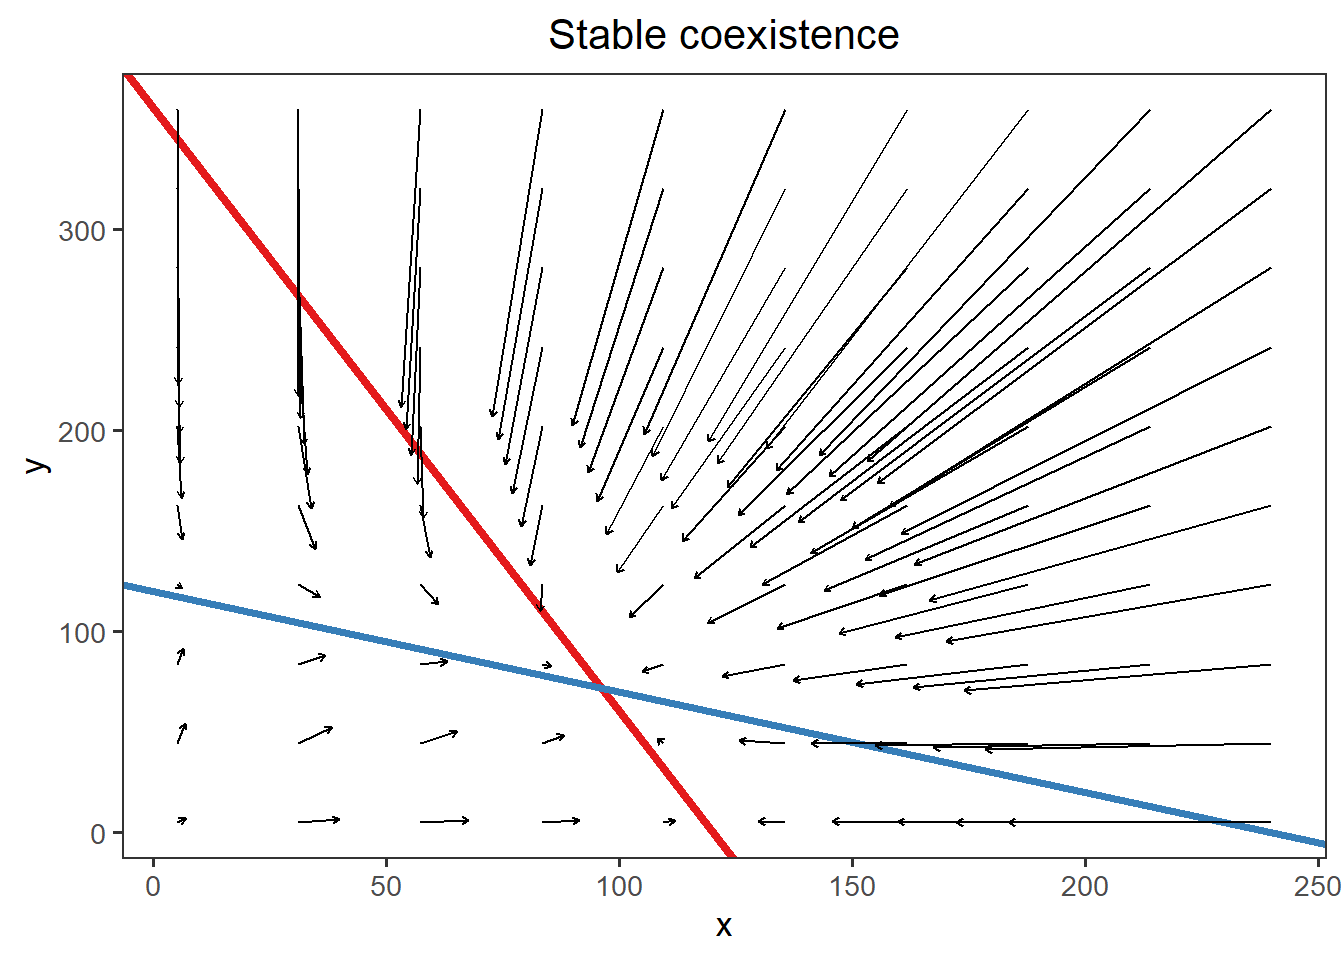
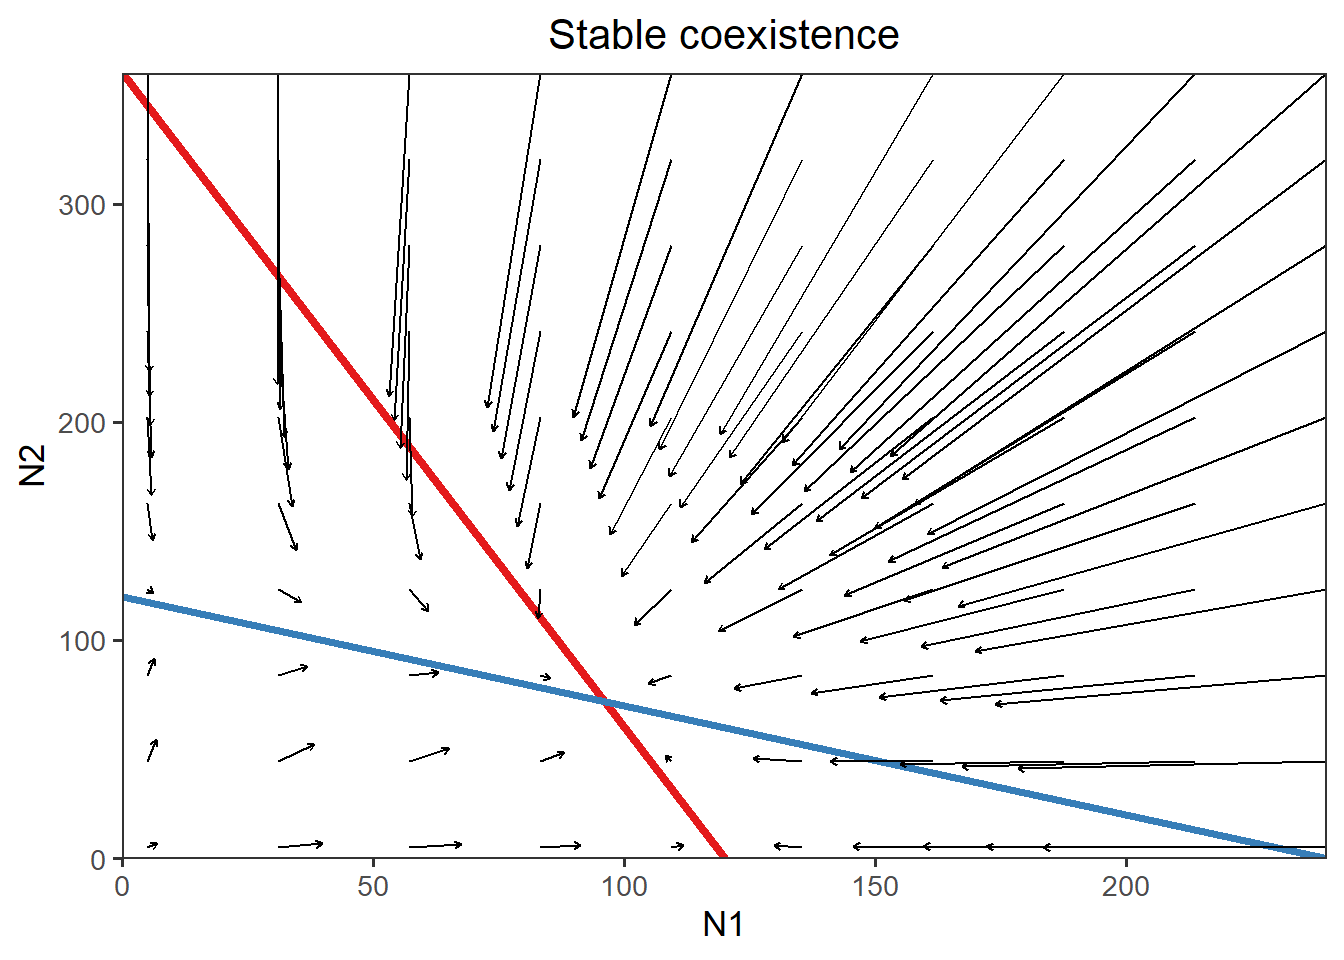
20221018

diff --git a/_book/week-7---lotka-volterra-competition-model.html b/_book/week-7---lotka-volterra-competition-model.html
@@ -264,14 +264,16 @@ code span.wa { color: #60a0b0; font-weight: bold; font-style: italic; } /* Warni
 <span id="cb55-36"><a href="week-7---lotka-volterra-competition-model.html#cb55-36"></a><span class="st">      </span><span class="kw">geom_abline</span>(<span class="dt">slope =</span> <span class="op">-</span>a21<span class="op">/</span>a22, <span class="dt">intercept =</span> r2<span class="op">/</span>a22, <span class="dt">color =</span> <span class="st">&quot;#377EB8&quot;</span>, <span class="dt">size =</span> <span class="fl">1.5</span>) <span class="op">+</span></span>
 <span id="cb55-37"><a href="week-7---lotka-volterra-competition-model.html#cb55-37"></a><span class="st">      </span><span class="kw">geom_segment</span>(<span class="dt">data =</span> vector_data,</span>
 <span id="cb55-38"><a href="week-7---lotka-volterra-competition-model.html#cb55-38"></a>                   <span class="kw">aes</span>(<span class="dt">x =</span> x, <span class="dt">y =</span> y, <span class="dt">xend =</span> xend, <span class="dt">yend =</span> yend),</span>
-<span id="cb55-39"><a href="week-7---lotka-volterra-competition-model.html#cb55-39"></a>                   <span class="dt">arrow =</span> <span class="kw">arrow</span>(<span class="dt">length =</span> <span class="kw">unit</span>(<span class="fl">0.1</span>, <span class="st">&quot;cm&quot;</span>))) <span class="op">+</span></span>
-<span id="cb55-40"><a href="week-7---lotka-volterra-competition-model.html#cb55-40"></a><span class="st">      </span><span class="kw">theme_bw</span>(<span class="dt">base_size =</span> <span class="dv">13</span>) <span class="op">+</span></span>
-<span id="cb55-41"><a href="week-7---lotka-volterra-competition-model.html#cb55-41"></a><span class="st">      </span><span class="kw">theme</span>(<span class="dt">panel.grid =</span> <span class="kw">element_blank</span>(),</span>
-<span id="cb55-42"><a href="week-7---lotka-volterra-competition-model.html#cb55-42"></a>            <span class="dt">plot.title =</span> <span class="kw">element_text</span>(<span class="dt">hjust =</span> <span class="fl">0.5</span>)) <span class="op">+</span></span>
-<span id="cb55-43"><a href="week-7---lotka-volterra-competition-model.html#cb55-43"></a><span class="st">      </span><span class="kw">labs</span>(<span class="dt">title =</span> title)</span>
-<span id="cb55-44"><a href="week-7---lotka-volterra-competition-model.html#cb55-44"></a>  }</span>
-<span id="cb55-45"><a href="week-7---lotka-volterra-competition-model.html#cb55-45"></a></span>
-<span id="cb55-46"><a href="week-7---lotka-volterra-competition-model.html#cb55-46"></a>  <span class="kw">phase_plane</span>(<span class="dt">r1 =</span> <span class="fl">1.2</span>, <span class="dt">r2 =</span> <span class="fl">1.2</span>, <span class="dt">a11 =</span> <span class="dv">1</span><span class="op">/</span><span class="dv">100</span>, <span class="dt">a21 =</span> <span class="dv">1</span><span class="op">/</span><span class="dv">200</span>, <span class="dt">a22 =</span> <span class="dv">1</span><span class="op">/</span><span class="dv">100</span>, <span class="dt">a12 =</span> <span class="dv">1</span><span class="op">/</span><span class="dv">300</span>, <span class="dt">t =</span> <span class="fl">0.3</span>, <span class="dt">title =</span> <span class="st">&quot;Stable coexistence&quot;</span>)</span></code></pre></div>
+<span id="cb55-39"><a href="week-7---lotka-volterra-competition-model.html#cb55-39"></a>                   <span class="dt">arrow =</span> <span class="kw">arrow</span>(<span class="dt">length =</span> <span class="kw">unit</span>(<span class="fl">0.1</span>, <span class="st">&quot;cm&quot;</span>))) <span class="op">+</span><span class="st">    </span></span>
+<span id="cb55-40"><a href="week-7---lotka-volterra-competition-model.html#cb55-40"></a><span class="st">      </span><span class="kw">scale_x_continuous</span>(<span class="dt">name =</span> <span class="st">&quot;N1&quot;</span>, <span class="dt">limits =</span> <span class="kw">c</span>(<span class="dv">0</span>, x_inter), <span class="dt">expand =</span> <span class="kw">c</span>(<span class="dv">0</span>, <span class="dv">0</span>)) <span class="op">+</span></span>
+<span id="cb55-41"><a href="week-7---lotka-volterra-competition-model.html#cb55-41"></a><span class="st">      </span><span class="kw">scale_y_continuous</span>(<span class="dt">name =</span> <span class="st">&quot;N2&quot;</span>, <span class="dt">limits =</span> <span class="kw">c</span>(<span class="dv">0</span>, y_inter), <span class="dt">expand =</span> <span class="kw">c</span>(<span class="dv">0</span>, <span class="dv">0</span>)) <span class="op">+</span></span>
+<span id="cb55-42"><a href="week-7---lotka-volterra-competition-model.html#cb55-42"></a><span class="st">      </span><span class="kw">theme_bw</span>(<span class="dt">base_size =</span> <span class="dv">13</span>) <span class="op">+</span></span>
+<span id="cb55-43"><a href="week-7---lotka-volterra-competition-model.html#cb55-43"></a><span class="st">      </span><span class="kw">theme</span>(<span class="dt">panel.grid =</span> <span class="kw">element_blank</span>(),</span>
+<span id="cb55-44"><a href="week-7---lotka-volterra-competition-model.html#cb55-44"></a>            <span class="dt">plot.title =</span> <span class="kw">element_text</span>(<span class="dt">hjust =</span> <span class="fl">0.5</span>)) <span class="op">+</span></span>
+<span id="cb55-45"><a href="week-7---lotka-volterra-competition-model.html#cb55-45"></a><span class="st">      </span><span class="kw">labs</span>(<span class="dt">title =</span> title)</span>
+<span id="cb55-46"><a href="week-7---lotka-volterra-competition-model.html#cb55-46"></a>  }</span>
+<span id="cb55-47"><a href="week-7---lotka-volterra-competition-model.html#cb55-47"></a></span>
+<span id="cb55-48"><a href="week-7---lotka-volterra-competition-model.html#cb55-48"></a>  <span class="kw">phase_plane</span>(<span class="dt">r1 =</span> <span class="fl">1.2</span>, <span class="dt">r2 =</span> <span class="fl">1.2</span>, <span class="dt">a11 =</span> <span class="dv">1</span><span class="op">/</span><span class="dv">100</span>, <span class="dt">a21 =</span> <span class="dv">1</span><span class="op">/</span><span class="dv">200</span>, <span class="dt">a22 =</span> <span class="dv">1</span><span class="op">/</span><span class="dv">100</span>, <span class="dt">a12 =</span> <span class="dv">1</span><span class="op">/</span><span class="dv">300</span>, <span class="dt">t =</span> <span class="fl">0.3</span>, <span class="dt">title =</span> <span class="st">&quot;Stable coexistence&quot;</span>)</span></code></pre></div>
 <p><img src="bookdown-demo_files/figure-html/unnamed-chunk-22-1.png" width="672" /></p>
 <div class="sourceCode" id="cb56"><pre class="sourceCode r"><code class="sourceCode r"><span id="cb56-1"><a href="week-7---lotka-volterra-competition-model.html#cb56-1"></a>  <span class="kw">phase_plane</span>(<span class="dt">r1 =</span> <span class="fl">1.2</span>, <span class="dt">r2 =</span> <span class="fl">1.2</span>, <span class="dt">a11 =</span> <span class="dv">1</span><span class="op">/</span><span class="dv">200</span>, <span class="dt">a21 =</span> <span class="dv">1</span><span class="op">/</span><span class="dv">100</span>, <span class="dt">a22 =</span> <span class="dv">1</span><span class="op">/</span><span class="dv">200</span>, <span class="dt">a12 =</span> <span class="dv">1</span><span class="op">/</span><span class="dv">100</span>, <span class="dt">t =</span> <span class="fl">0.3</span>, <span class="dt">title =</span> <span class="st">&quot;Unstable coexistence (saddle)&quot;</span>)</span></code></pre></div>
 <p><img src="bookdown-demo_files/figure-html/unnamed-chunk-22-2.png" width="672" /></p>

diff --git a/week-7---lotka-volterra-competition-model.html b/week-7---lotka-volterra-competition-model.html
@@ -264,14 +264,16 @@ code span.wa { color: #60a0b0; font-weight: bold; font-style: italic; } /* Warni
 <span id="cb55-36"><a href="week-7---lotka-volterra-competition-model.html#cb55-36"></a><span class="st">      </span><span class="kw">geom_abline</span>(<span class="dt">slope =</span> <span class="op">-</span>a21<span class="op">/</span>a22, <span class="dt">intercept =</span> r2<span class="op">/</span>a22, <span class="dt">color =</span> <span class="st">&quot;#377EB8&quot;</span>, <span class="dt">size =</span> <span class="fl">1.5</span>) <span class="op">+</span></span>
 <span id="cb55-37"><a href="week-7---lotka-volterra-competition-model.html#cb55-37"></a><span class="st">      </span><span class="kw">geom_segment</span>(<span class="dt">data =</span> vector_data,</span>
 <span id="cb55-38"><a href="week-7---lotka-volterra-competition-model.html#cb55-38"></a>                   <span class="kw">aes</span>(<span class="dt">x =</span> x, <span class="dt">y =</span> y, <span class="dt">xend =</span> xend, <span class="dt">yend =</span> yend),</span>
-<span id="cb55-39"><a href="week-7---lotka-volterra-competition-model.html#cb55-39"></a>                   <span class="dt">arrow =</span> <span class="kw">arrow</span>(<span class="dt">length =</span> <span class="kw">unit</span>(<span class="fl">0.1</span>, <span class="st">&quot;cm&quot;</span>))) <span class="op">+</span></span>
-<span id="cb55-40"><a href="week-7---lotka-volterra-competition-model.html#cb55-40"></a><span class="st">      </span><span class="kw">theme_bw</span>(<span class="dt">base_size =</span> <span class="dv">13</span>) <span class="op">+</span></span>
-<span id="cb55-41"><a href="week-7---lotka-volterra-competition-model.html#cb55-41"></a><span class="st">      </span><span class="kw">theme</span>(<span class="dt">panel.grid =</span> <span class="kw">element_blank</span>(),</span>
-<span id="cb55-42"><a href="week-7---lotka-volterra-competition-model.html#cb55-42"></a>            <span class="dt">plot.title =</span> <span class="kw">element_text</span>(<span class="dt">hjust =</span> <span class="fl">0.5</span>)) <span class="op">+</span></span>
-<span id="cb55-43"><a href="week-7---lotka-volterra-competition-model.html#cb55-43"></a><span class="st">      </span><span class="kw">labs</span>(<span class="dt">title =</span> title)</span>
-<span id="cb55-44"><a href="week-7---lotka-volterra-competition-model.html#cb55-44"></a>  }</span>
-<span id="cb55-45"><a href="week-7---lotka-volterra-competition-model.html#cb55-45"></a></span>
-<span id="cb55-46"><a href="week-7---lotka-volterra-competition-model.html#cb55-46"></a>  <span class="kw">phase_plane</span>(<span class="dt">r1 =</span> <span class="fl">1.2</span>, <span class="dt">r2 =</span> <span class="fl">1.2</span>, <span class="dt">a11 =</span> <span class="dv">1</span><span class="op">/</span><span class="dv">100</span>, <span class="dt">a21 =</span> <span class="dv">1</span><span class="op">/</span><span class="dv">200</span>, <span class="dt">a22 =</span> <span class="dv">1</span><span class="op">/</span><span class="dv">100</span>, <span class="dt">a12 =</span> <span class="dv">1</span><span class="op">/</span><span class="dv">300</span>, <span class="dt">t =</span> <span class="fl">0.3</span>, <span class="dt">title =</span> <span class="st">&quot;Stable coexistence&quot;</span>)</span></code></pre></div>
+<span id="cb55-39"><a href="week-7---lotka-volterra-competition-model.html#cb55-39"></a>                   <span class="dt">arrow =</span> <span class="kw">arrow</span>(<span class="dt">length =</span> <span class="kw">unit</span>(<span class="fl">0.1</span>, <span class="st">&quot;cm&quot;</span>))) <span class="op">+</span><span class="st">    </span></span>
+<span id="cb55-40"><a href="week-7---lotka-volterra-competition-model.html#cb55-40"></a><span class="st">      </span><span class="kw">scale_x_continuous</span>(<span class="dt">name =</span> <span class="st">&quot;N1&quot;</span>, <span class="dt">limits =</span> <span class="kw">c</span>(<span class="dv">0</span>, x_inter), <span class="dt">expand =</span> <span class="kw">c</span>(<span class="dv">0</span>, <span class="dv">0</span>)) <span class="op">+</span></span>
+<span id="cb55-41"><a href="week-7---lotka-volterra-competition-model.html#cb55-41"></a><span class="st">      </span><span class="kw">scale_y_continuous</span>(<span class="dt">name =</span> <span class="st">&quot;N2&quot;</span>, <span class="dt">limits =</span> <span class="kw">c</span>(<span class="dv">0</span>, y_inter), <span class="dt">expand =</span> <span class="kw">c</span>(<span class="dv">0</span>, <span class="dv">0</span>)) <span class="op">+</span></span>
+<span id="cb55-42"><a href="week-7---lotka-volterra-competition-model.html#cb55-42"></a><span class="st">      </span><span class="kw">theme_bw</span>(<span class="dt">base_size =</span> <span class="dv">13</span>) <span class="op">+</span></span>
+<span id="cb55-43"><a href="week-7---lotka-volterra-competition-model.html#cb55-43"></a><span class="st">      </span><span class="kw">theme</span>(<span class="dt">panel.grid =</span> <span class="kw">element_blank</span>(),</span>
+<span id="cb55-44"><a href="week-7---lotka-volterra-competition-model.html#cb55-44"></a>            <span class="dt">plot.title =</span> <span class="kw">element_text</span>(<span class="dt">hjust =</span> <span class="fl">0.5</span>)) <span class="op">+</span></span>
+<span id="cb55-45"><a href="week-7---lotka-volterra-competition-model.html#cb55-45"></a><span class="st">      </span><span class="kw">labs</span>(<span class="dt">title =</span> title)</span>
+<span id="cb55-46"><a href="week-7---lotka-volterra-competition-model.html#cb55-46"></a>  }</span>
+<span id="cb55-47"><a href="week-7---lotka-volterra-competition-model.html#cb55-47"></a></span>
+<span id="cb55-48"><a href="week-7---lotka-volterra-competition-model.html#cb55-48"></a>  <span class="kw">phase_plane</span>(<span class="dt">r1 =</span> <span class="fl">1.2</span>, <span class="dt">r2 =</span> <span class="fl">1.2</span>, <span class="dt">a11 =</span> <span class="dv">1</span><span class="op">/</span><span class="dv">100</span>, <span class="dt">a21 =</span> <span class="dv">1</span><span class="op">/</span><span class="dv">200</span>, <span class="dt">a22 =</span> <span class="dv">1</span><span class="op">/</span><span class="dv">100</span>, <span class="dt">a12 =</span> <span class="dv">1</span><span class="op">/</span><span class="dv">300</span>, <span class="dt">t =</span> <span class="fl">0.3</span>, <span class="dt">title =</span> <span class="st">&quot;Stable coexistence&quot;</span>)</span></code></pre></div>
 <p><img src="bookdown-demo_files/figure-html/unnamed-chunk-22-1.png" width="672" /></p>
 <div class="sourceCode" id="cb56"><pre class="sourceCode r"><code class="sourceCode r"><span id="cb56-1"><a href="week-7---lotka-volterra-competition-model.html#cb56-1"></a>  <span class="kw">phase_plane</span>(<span class="dt">r1 =</span> <span class="fl">1.2</span>, <span class="dt">r2 =</span> <span class="fl">1.2</span>, <span class="dt">a11 =</span> <span class="dv">1</span><span class="op">/</span><span class="dv">200</span>, <span class="dt">a21 =</span> <span class="dv">1</span><span class="op">/</span><span class="dv">100</span>, <span class="dt">a22 =</span> <span class="dv">1</span><span class="op">/</span><span class="dv">200</span>, <span class="dt">a12 =</span> <span class="dv">1</span><span class="op">/</span><span class="dv">100</span>, <span class="dt">t =</span> <span class="fl">0.3</span>, <span class="dt">title =</span> <span class="st">&quot;Unstable coexistence (saddle)&quot;</span>)</span></code></pre></div>
 <p><img src="bookdown-demo_files/figure-html/unnamed-chunk-22-2.png" width="672" /></p>
